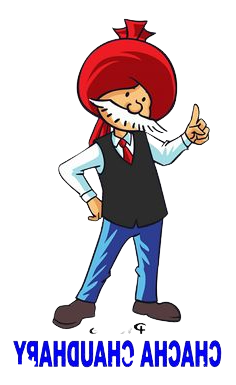
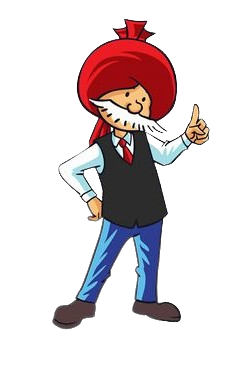
Home page bot section content update

diff --git a/frontend/src/pages/Bot.jsx b/frontend/src/pages/Bot.jsx
@@ -11,12 +11,17 @@ const Bot = () => {
 	};
 
 	return (
+		<>
+		<section className={` ${isOpen ? 'hidden' : 'block'} font-sans text-center text-lg bg-slate-50 m-5 p-3 rounded-full `} >
+				To know more about holy river Ganga about it's history, significance and beyond..! Try a converstaion with <div className='inline font-bold'>Chacha Chaudhary</div> by clicking on him.
+			</section>
 		<section className='flex flex-row items-end px-3 py-4 '>
-			<img className='w-[20%]' src={speaking} alt='Chacha Chaudhary' onClick={handleButton} />
+			<img className='w-[20%] cursor-pointer' src={speaking} alt='Chacha Chaudhary' onClick={handleButton} />
 			<div className={`w-[90%] ${isOpen ? 'block' : 'hidden'}`}>
 				<ChatBot />
 			</div>
 		</section>
+		</>
 	);
 };
 
